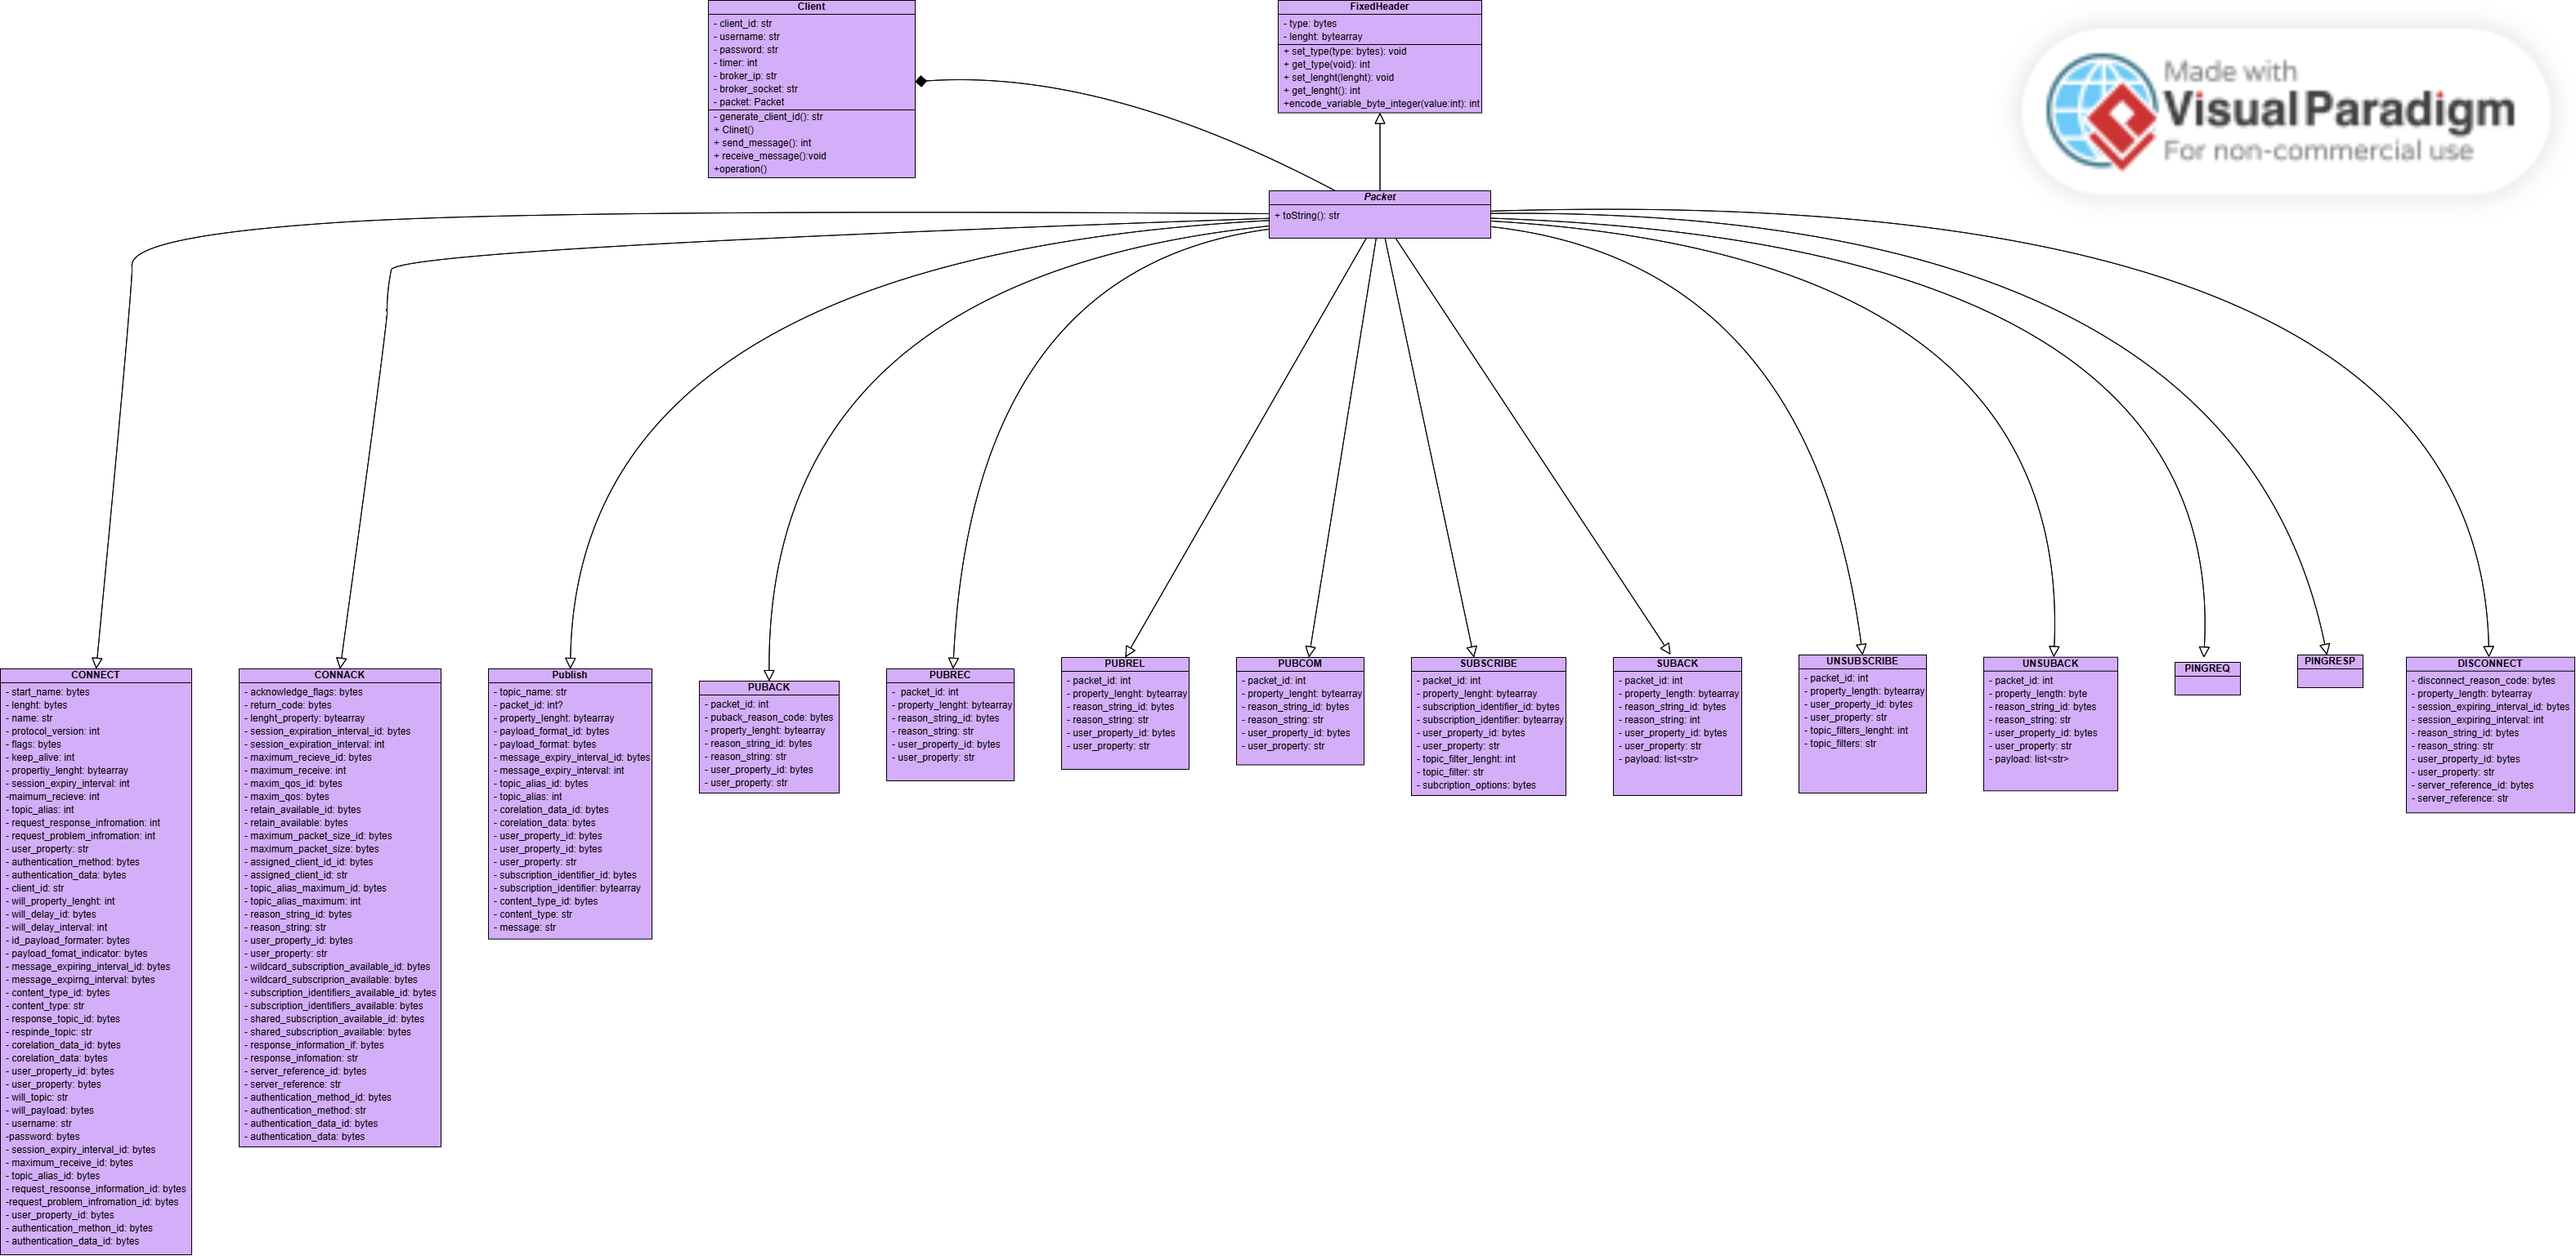
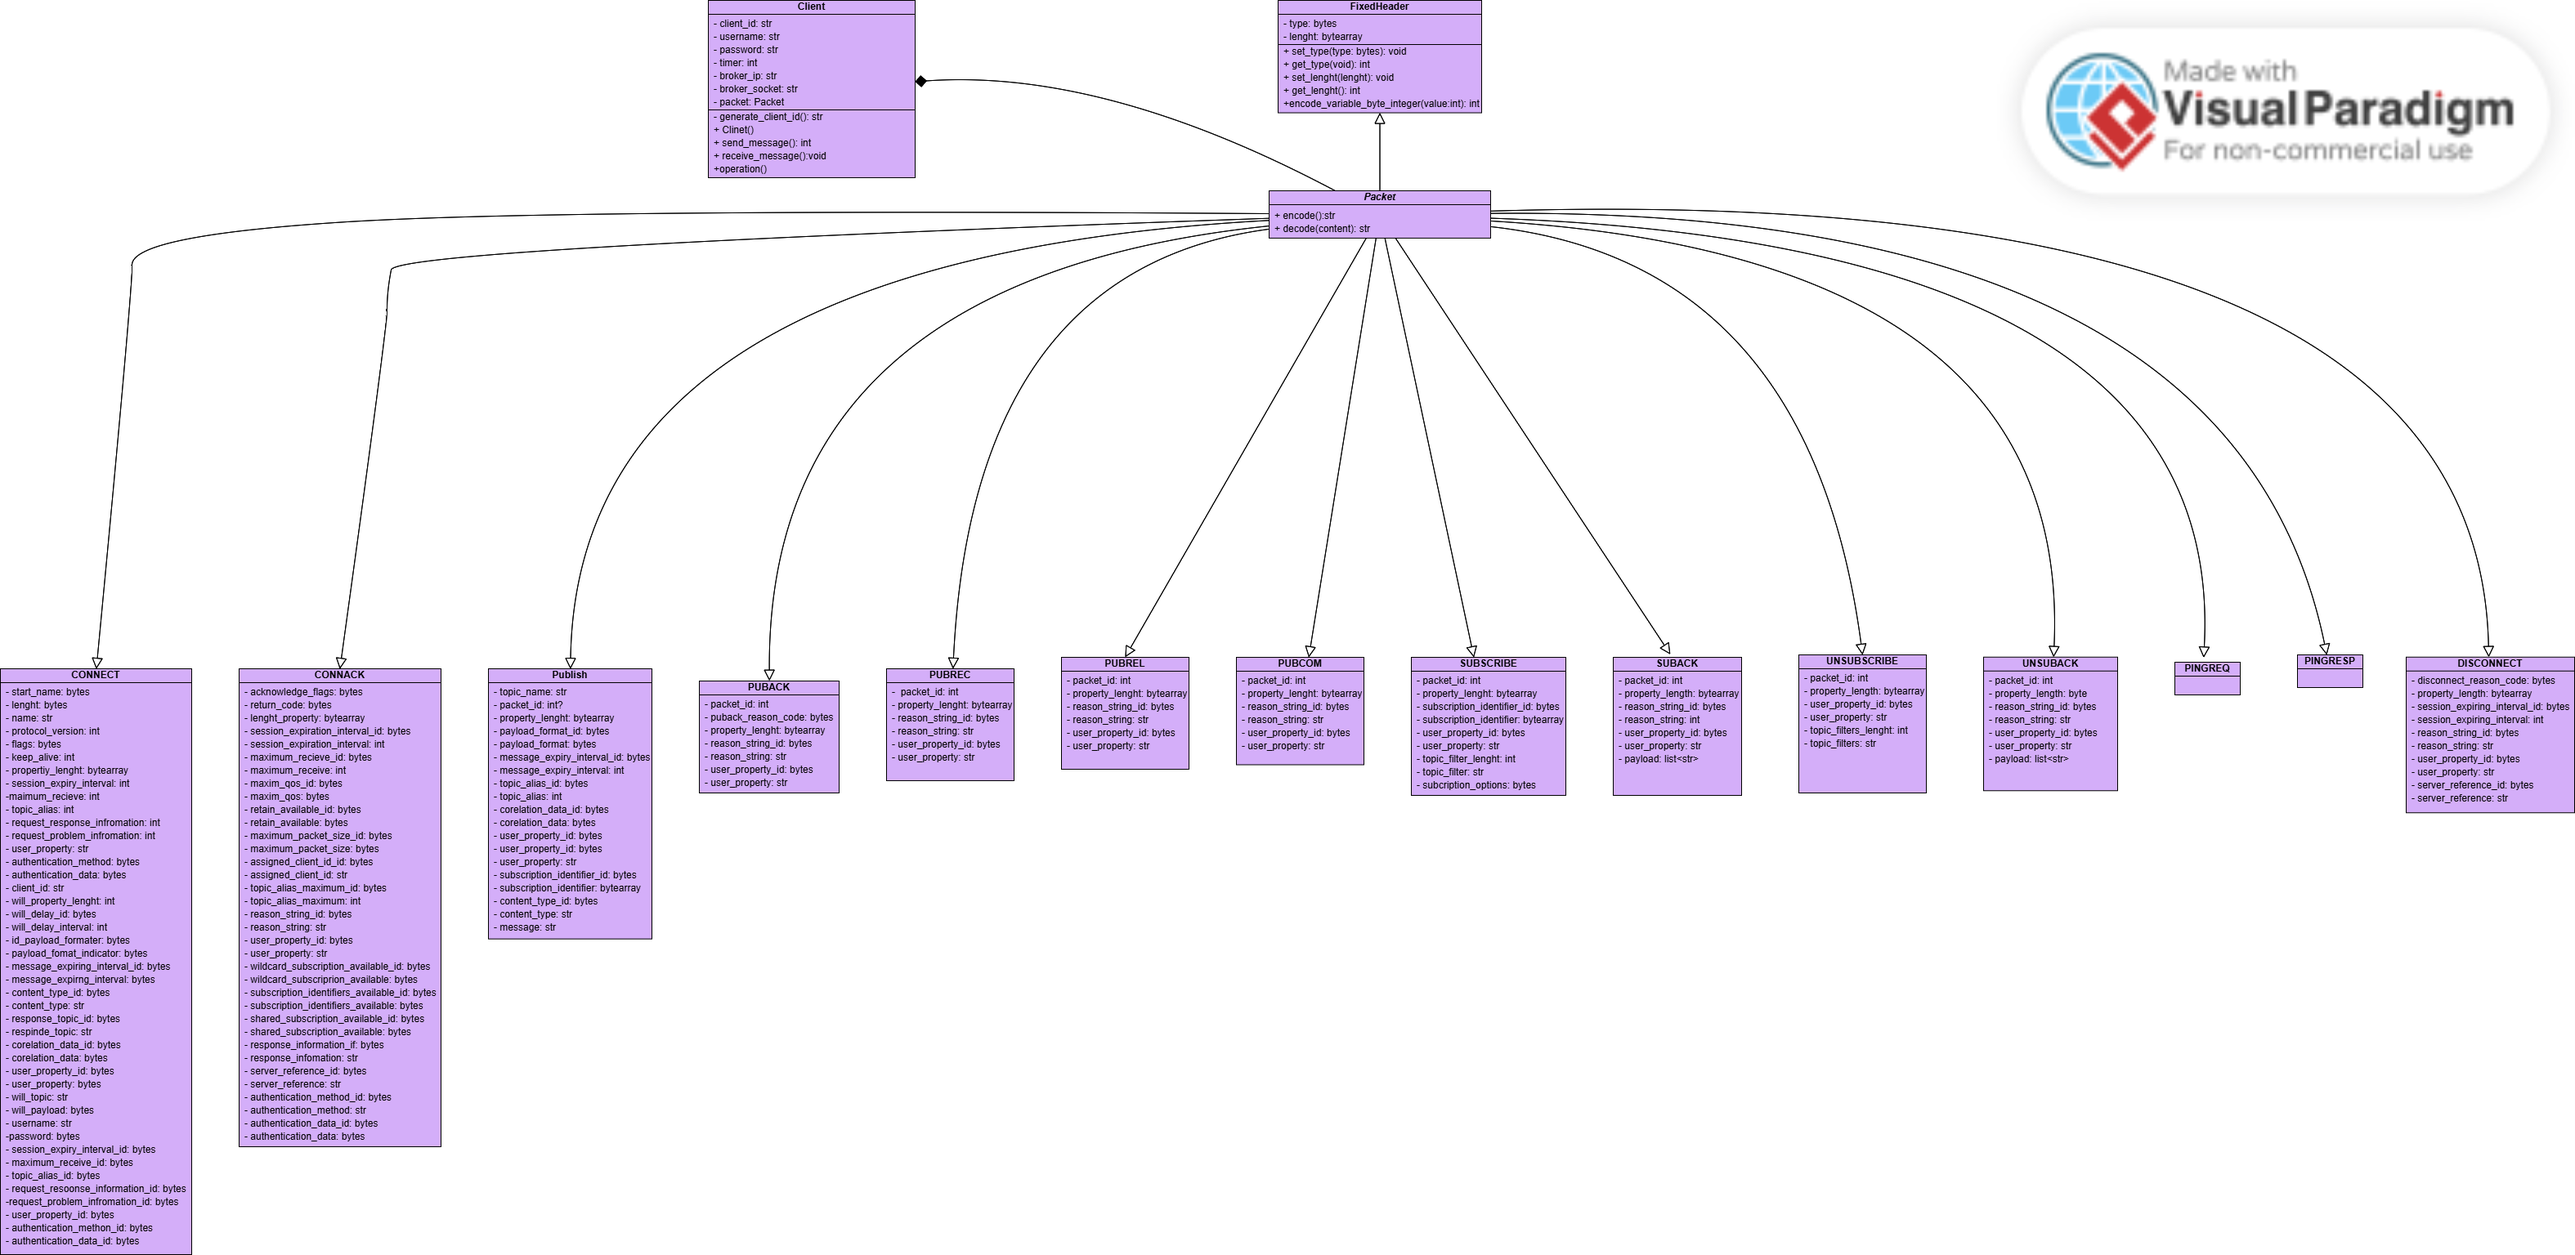
Pachetul CONNACK plus modificare mica diagrama la metode Packet

diff --git a/Documentație/Capitolul 3 Proiectarea aplicației/06. Packet.md b/Documentație/Capitolul 3 Proiectarea aplicației/06. Packet.md
@@ -2,6 +2,16 @@
 ###### [< Clasa FixedHeader](04.%20FixedHeader.md)
 # Clasa Packet
 ### Aceasta este o clasă abstractă care are rolul de a descrie la mod general pachete, moștenind clasa FixedHeader (deoarece acest element este comun tuturor pachetelor). Metodele acestei clase sunt:
-1. toString()  
-Această metodă este abstractă și va fi implementată de subclasele ei. În cadrul acestei metode se vor pune toate datele într-un singur string pentru a putea fi ușor trimis la server prin intermediul socket-ului.
+1. encode()  
+Această metodă va fi implementată de subclasele ei. În cadrul acestei metode se vor pune toate datele într-un singur string pentru a putea fi ușor trimis la server prin intermediul socket-ului. În cadrul acestei clase și a claselor care nu vor trebui codificarte, această metodă nu va realiza nicio operație:
+```Python
+def encode():str
+    pass
+```
+2. decode()  
+Aceasta metodă are rolul de a decodifica pachetul și a verifica corectitudinea lui. Deoarece tipul pachetului nu este cunoscut sau pentru că nu toate pachetele trebuie decodificate, această metodă nu va realiza nicio operație:
+```Python
+def decode(encoded_pachet_content:str)
+    pass
+```
 ###### [Clasa CONNECT >](05.%20CONNECT.md)

diff --git a/Documentație/Capitolul 3 Proiectarea aplicației/08. CONNACK.md b/Documentație/Capitolul 3 Proiectarea aplicației/08. CONNACK.md
@@ -1,0 +1,9 @@
+###### [<< Înapoi la cuprins](../Cuprins.md)
+###### [< Clasa CONNECT](07.%20CONNECT.md)
+# Clasa CONNACK
+### Această clasă reprezintă pachetul CONNACK, din cadrul protocolului de cominucare MQTT v5. Acest pachet este primit ca răspuns de la server și va conține informații necesare pentru client. Majoritatea infromațiilor primite sunt transparente clientului, nefiind reprezentate în interfața grafică cu clientul. Metodele acestei clase sunt:
+1. encode()  
+Acest pachet este trimi doar de server către client, astfel nu vom suprascrie metoda encode() din cadrul clasei Packet.
+2. decode(str)  
+Această metodă este folosită pentru a decodifica conținutul pachetului primit. În cadrul acestui proces se vor extrage informațiile necesare din pachet și se va trimite un mesaj către client care va indica dacă conectarea s-a realizat cu succes sau nu.
+###### [Clasa PUBLISH >](08.%20PUBLISH.md)

diff --git a/Documentație/Cuprins.md b/Documentație/Cuprins.md
@@ -38,6 +38,7 @@
 04. [Clasa Client](Capitolul%203%20Proiectarea%20aplicației/04.%20Client.md)
 05. [Clasa FixedHeader](Capitolul%203%20Proiectarea%20aplicației/05.%20FixedHeader.md)
 06. [Clasa Packet](Capitolul%203%20Proiectarea%20aplicației/06.%20Packet.md)
+08. [Clasa CONNACK](Capitolul%203%20Proiectarea%20aplicației/08.%20CONNACK.md)
 20. [Interfața cu utilizatorul](Capitolul%203%20Proiectarea%20aplicației/20.%20Interfața%20cu%20utilizatorul.md)
 ---
 ## Capitolul 4 Anexe
